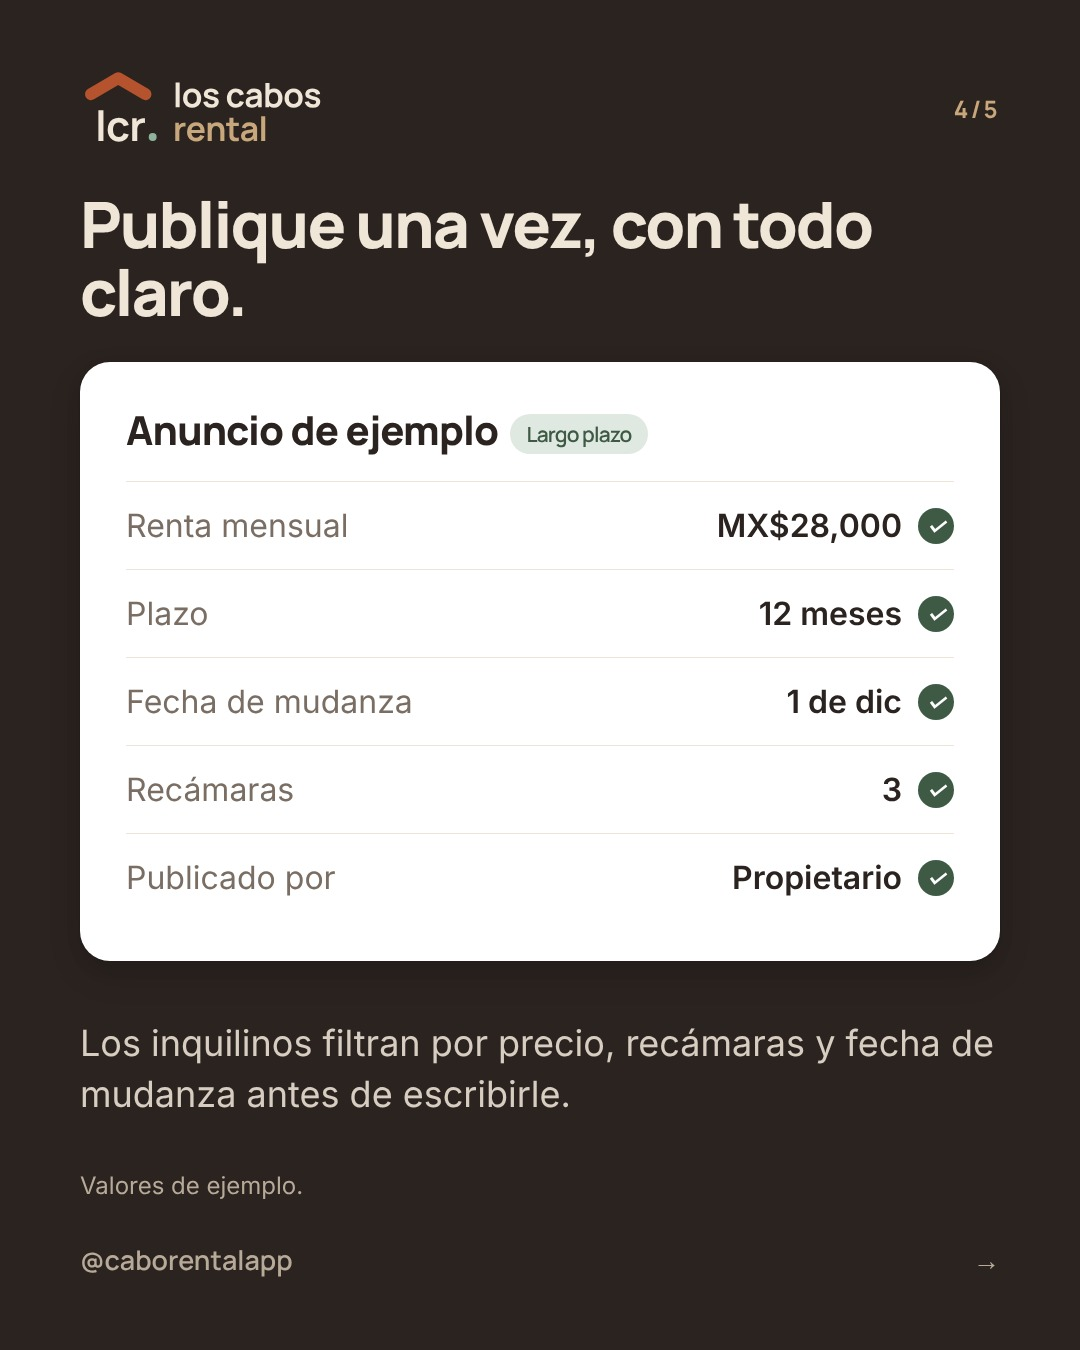
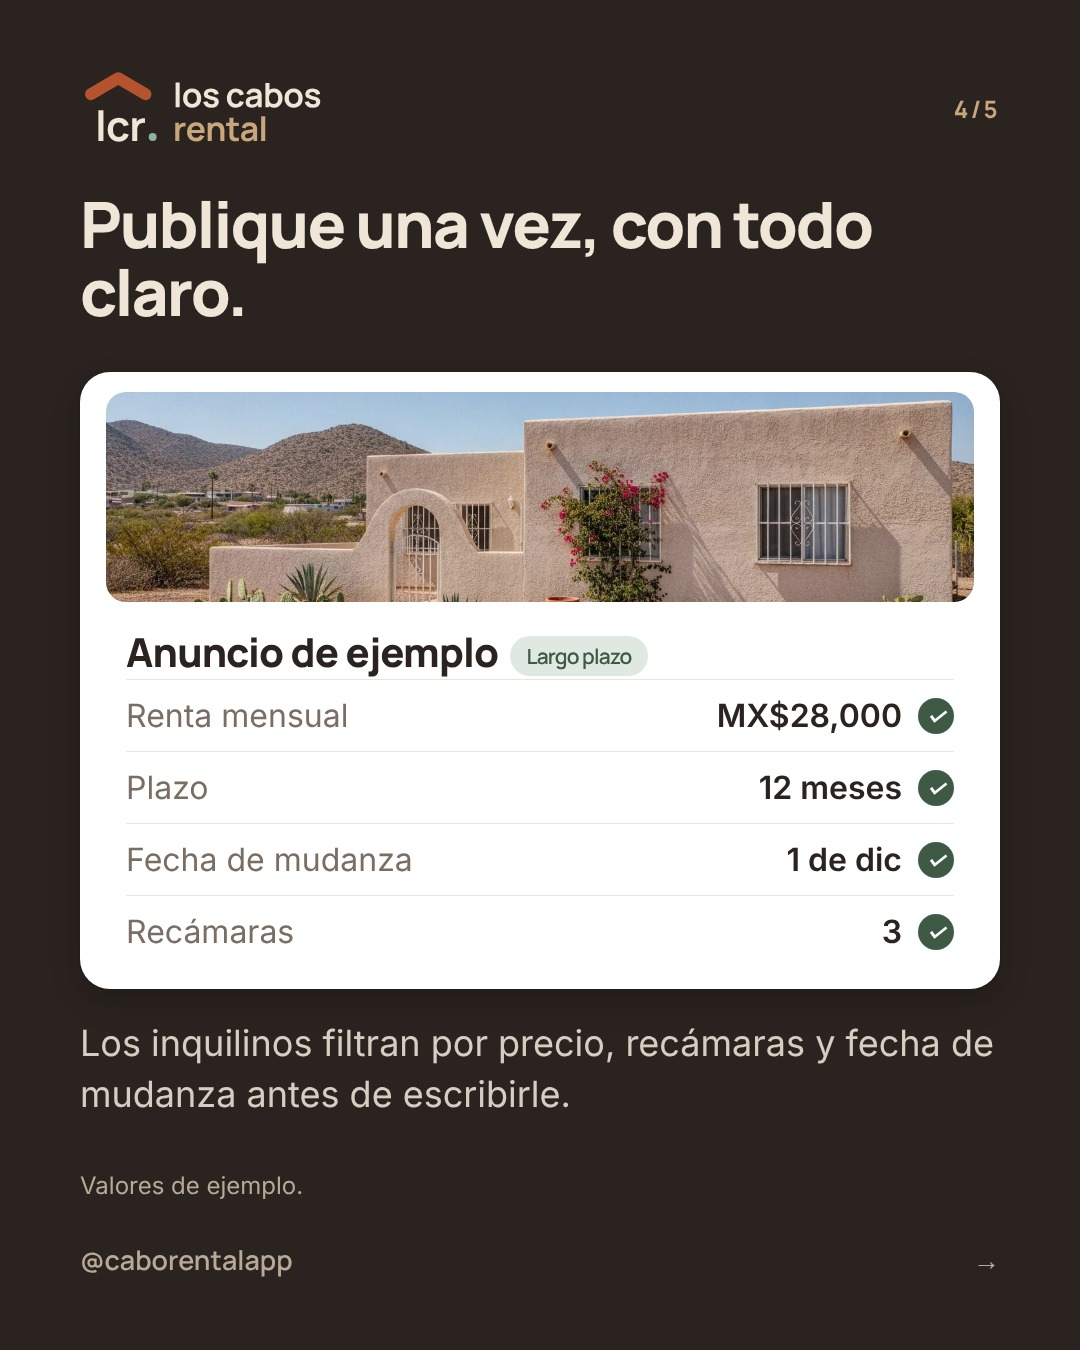
Nov 4 post: real house photo in the group post and listing card
Template: optional photo on fbpost and card slides (B layout).

Claude-Session: https://claude.ai/code/session_011VDsVMwhgF5HvPZdvzxNwS

Changed region(s): [[0.0611, 0.2489, 0.9472, 0.7467], [0.6722, 0.4978, 0.8861, 0.5911]]

diff --git a/tooling/template/v3.js b/tooling/template/v3.js
@@ -66,6 +66,8 @@ body.dk{background:var(--mesq);color:var(--cantera)}
 .bub b{font-weight:600;margin-right:8px}
 .b h1{position:absolute;left:80px;right:80px;bottom:170px;font-family:Manrope;font-weight:800;font-size:88px;line-height:1.03;letter-spacing:-.035em}
 .lst{position:absolute;left:80px;right:80px;padding:40px 46px}
+.limg{height:210px;border-radius:20px;margin:-14px -20px 22px}
+.lst.hasimg{padding-top:34px;padding-bottom:22px}.lst.hasimg .f{padding:16px 0}
 .lst h2{font-family:Manrope;font-weight:800;font-size:40px;letter-spacing:-.02em}
 .lst .chip{display:inline-block;font-size:21px;font-weight:600;background:#dfe9e1;color:var(--green);padding:6px 16px;border-radius:999px;margin-left:12px;vertical-align:middle}
 .f{display:flex;justify-content:space-between;align-items:center;border-top:1px solid #ece4d8;padding:24px 0;font-size:32px}
@@ -111,14 +113,14 @@ function B(s, i, n) {
   let body = '';
   if (s.type === 'fbpost') {
     body = `<div class="post card"><div class="ph"><div class="av"></div><div><b>${s.group}</b><small>${s.meta}</small></div></div>
-      <p class="pt">${s.postText}</p><div class="img"></div>
+      <p class="pt">${s.postText}</p><div class="img"${s.photo ? ` style="background:url('file://${path.join(ROOT, s.photo)}') center/cover"` : ''}></div>
       <div>${s.comments.map(c => `<span class="bub"><b>${c[0]}</b>${c[1]}</span>`).join('')}</div></div>
       <h1 style="font-size:${s.size || 88}px">${s.head}</h1>`;
   } else if (s.type === 'chat') {
     body = `<p class="t2">${s.head}</p><div class="chat" style="top:${s.chatTop || 400}px">${s.msgs.map(m => `<span class="${m[0]}">${m[1]}</span>`).join('')}</div>
       ${s.body ? `<p class="bbody" style="bottom:190px">${s.body}</p>` : ''}`;
   } else if (s.type === 'card') {
-    body = `<p class="t2">${s.head}</p><div class="lst card" style="top:${s.cardTop || 380}px"><h2>${s.cardTitle}${s.chip ? `<span class="chip">${s.chip}</span>` : ''}</h2>
+    body = `<p class="t2">${s.head}</p><div class="lst card${s.photo ? ' hasimg' : ''}" style="top:${s.cardTop || 380}px">${s.photo ? `<div class="limg" style="background:url('file://${path.join(ROOT, s.photo)}') center/cover"></div>` : ''}<h2>${s.cardTitle}${s.chip ? `<span class="chip">${s.chip}</span>` : ''}</h2>
       ${s.fields.map(r => `<div class="f"><span>${r[0]}</span><b>${r[1]}<i class="ok">✓</i></b></div>`).join('')}</div>
       ${s.body ? `<p class="bbody" style="bottom:230px">${s.body}</p>` : ''}${s.note ? `<p class="bnote" style="bottom:150px">${s.note}</p>` : ''}`;
   } else if (s.type === 'options') {
